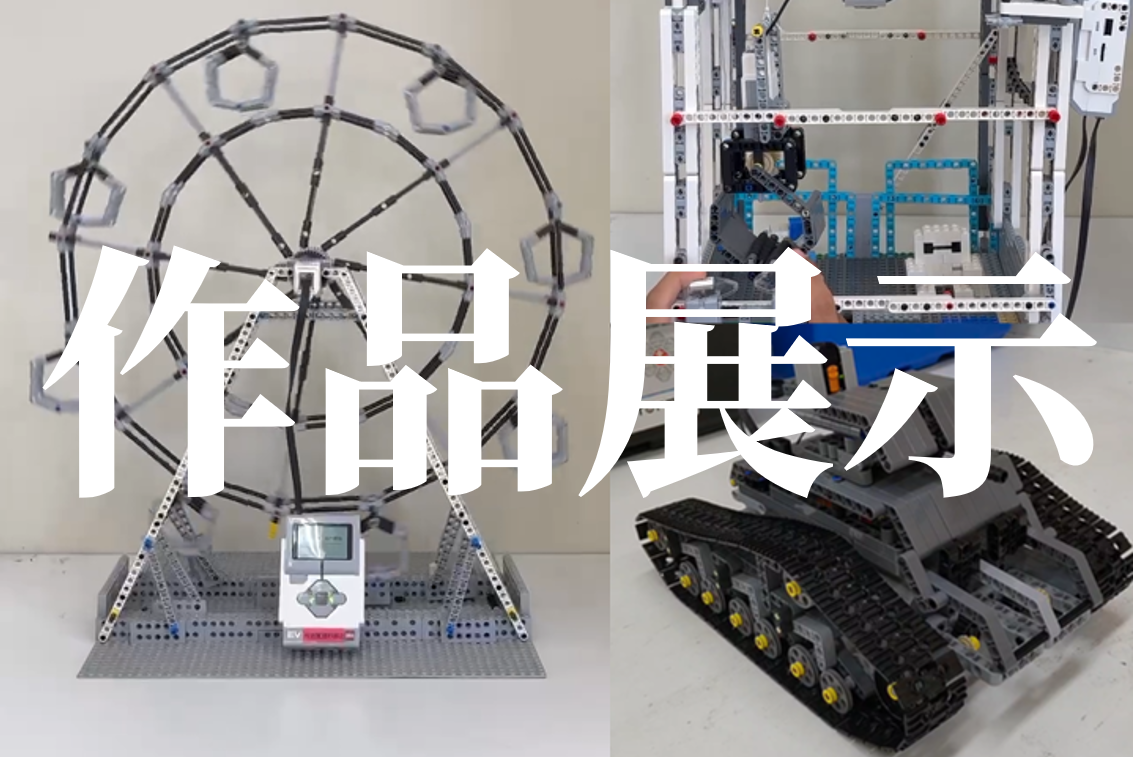
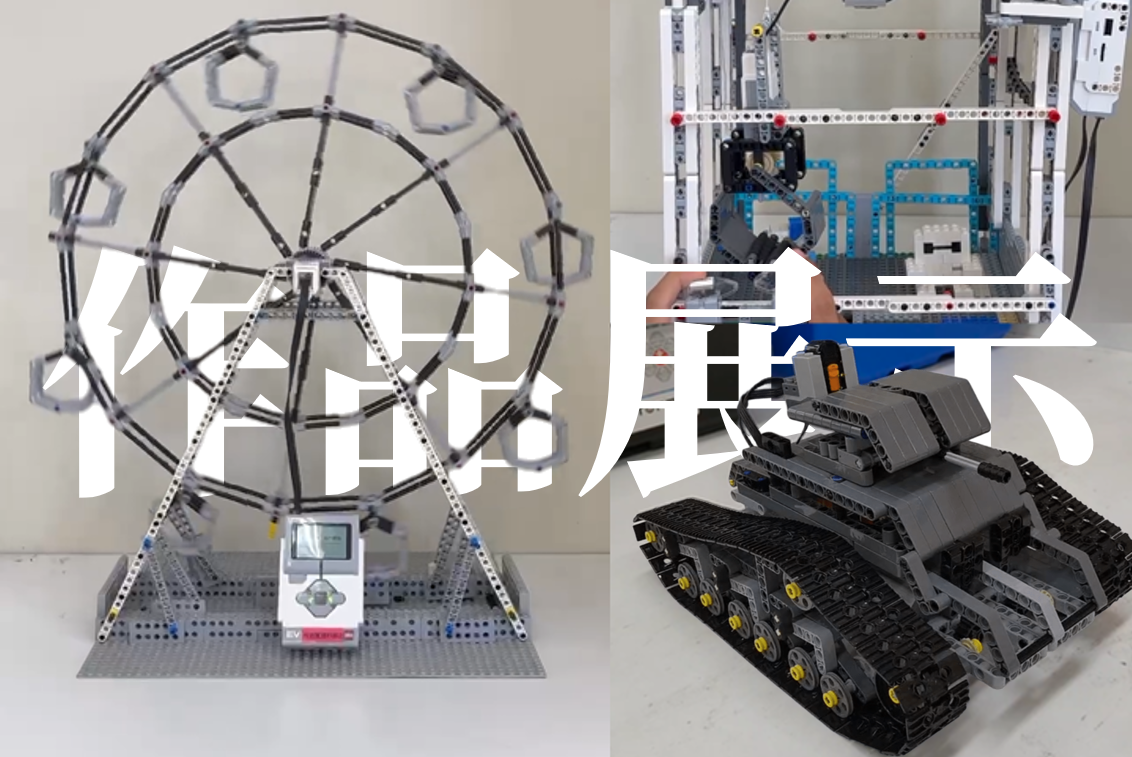
新

diff --git a/index.html b/index.html
@@ -15,14 +15,14 @@
    TOKENS
 =================================================================== */
 :root{
-  --paper:      #F6F1E7; /* moon-cream: 背景 */
+  --paper:      #F6F1E7;
   --paper-soft: #EFE7D8;
-  --ink:        #1B1F3B; /* deep indigo: メインテキスト/濃色 */
+  --ink:        #1B1F3B;
   --ink-soft:   #454A6E;
-  --coral:      #F2795B; /* signature accent */
+  --coral:      #F2795B;
   --coral-deep: #D85E42;
-  --gold:       #E8C468; /* star gold */
-  --teal:       #4C7A80; /* 補助色 */
+  --gold:       #E8C468;
+  --teal:       #4C7A80;
   --line:       rgba(27,31,59,0.14);
 
   --font-display: "Zen Old Mincho", serif;
@@ -70,7 +70,7 @@ ul{ margin:0; padding:0; list-style:none; }
 img{ max-width:100%; display:block; }
 
 /* ===================================================================
-   装飾: 背景の星フィールド(signature element)
+   装飾: 背景
 =================================================================== */
 .star-field{
   position:fixed; inset:0;
@@ -381,7 +381,7 @@ img{ max-width:100%; display:block; }
 .work-card .link-btn--solid:hover{ background:var(--coral); border-color:var(--coral); color:var(--ink); }
 
 /* ===================================================================
-   NEWS / GOODS ウィジェット
+   NEWS
 =================================================================== */
 .widget-row{
   margin-top:52px;
@@ -466,7 +466,7 @@ img{ max-width:100%; display:block; }
 }
 
 /* ===================================================================
-   CTA (Contact / Shop)
+   CTA
 =================================================================== */
 .cta-grid{ display:grid; grid-template-columns:1fr 1fr; gap:28px; }
 @media (max-width:800px){ .cta-grid{ grid-template-columns:1fr; } }
@@ -1245,8 +1245,7 @@ body.modal-open{ overflow:hidden; }
 
         <!-- ▼ SNS等 各種リンクボタン(メイン) -->
         <div class="link-buttons" aria-label="公式リンク">
-          <a href="#" class="link-btn" data-external></span>X (Twitter)</a>
-          <a href="#" class="link-btn" data-external></span>Instagram</a>
+          <a href="https://www.instagram.com/p/DPSZz1HjPwc/" class="link-btn" data-external></span>Instagram</a>
           <a href="https://www.youtube.com/watch?v=gTEdGXhTDfI" class="link-btn" data-external></span>YouTube</a>
         </div>
 
@@ -1321,8 +1320,7 @@ body.modal-open{ overflow:hidden; }
       <div class="cta-links">
         <p class="eyebrow mono center">Link</p>
         <div class="link-buttons link-buttons--center">
-          <a href="#" class="link-btn" data-external></span>X (Twitter)</a>
-          <a href="#" class="link-btn" data-external></span>Instagram</a>
+          <a href="https://www.instagram.com/p/DPSZz1HjPwc/" class="link-btn" data-external></span>Instagram</a>
           <a href="https://www.youtube.com/watch?v=gTEdGXhTDfI" class="link-btn" data-external></span>YouTube</a>
         </div>
       </div>
@@ -1354,7 +1352,7 @@ body.modal-open{ overflow:hidden; }
     <nav class="footer-nav">
     </nav>
 
-    <p class="copyright mono">製作：技術家庭科部</p>
+    <p class="copyright mono">Kanimisova_VRC</p>
   </div>
 
   <!--<button class="to-top" id="toTop" aria-label="ページトップへ戻る">↑</button>-->
@@ -1481,17 +1479,15 @@ const worksData = [
       { from: '2026-10-18T10:30', label: '本日は終了しました。' },
     ],
     title: 'ロボットサッカー',
-    titleDisplay: 'ロボットサッカー',   // 表示用(改行OK)
     thumb: 'assets/ロボサカサムネ.png',
     meta: [
       { label: '対象年齢', value: '全年齢' },
       { label: 'ジャンル', value: '観戦' },
       { label: '開催場所', value: '第一体育館' },
     ],
-    leadCard: '試行錯誤して作ったサッカーロボットで試合をします。選手たちの熱い戦いにご注目ください。',   // カード一覧(短め)
     leadPopup: '試行錯誤して作ったサッカーロボットで試合をします。仲間と積み重ねた努力を発揮し、トーナメントを勝ち抜いたチームが栄冠を手にします。選手たちの熱い戦いにご注目ください！',  // ポップアップ(長め)
     gallery: ['assets/ロボサカ1.png'],
-    video: null,              // YouTube埋め込みURL。無ければnull
+    video: null,
     links: [
     ],
     schedule: [
@@ -1516,7 +1512,7 @@ const worksData = [
 
   {
     id: 'work-c',
-    badge: 'null',            // 'new' / 'released' / 'live' / null(バッジなし)
+    badge: 'null',
     badgeText: '',
     statusTimeline: [
       { from: null, label: '常設展示' },
@@ -1528,10 +1524,9 @@ const worksData = [
       { label: 'ジャンル', value: '展示' },
       { label: '展示場所', value: '3階 Macルーム' },
     ],
-    leadCard: '部員が作った作品を展示しています。',   // カード一覧(短め)
     leadPopup: '主にレゴ班の部員が作ったレゴ作品を展示しています。組み立てやプログラムに工夫した作品が今年もたくさん集まりました。',  // ポップアップ(長め)
     gallery: ['assets/レゴ班作品展示.png'],
-    video: null,              // YouTube埋め込みURL。無ければnull
+    video: null,
     links: [
     ],
     schedule: []
@@ -1551,10 +1546,9 @@ const worksData = [
       { label: 'ジャンル', value: '' },
       { label: '開催場所', value: '' },
     ],
-    leadCard: '',   // カード一覧(短め)
     leadPopup: '',  // ポップアップ(長め)
     gallery: ['assets/画像なし.png'],
-    video: null,              // YouTube埋め込みURL。無ければnull
+    video: null,
     links: [
       { label: '詳細はこちら', url: '#' }
     ],
@@ -1575,10 +1569,9 @@ const worksData = [
       { label: 'ジャンル', value: '' },
       { label: '開催場所', value: '' },
     ],
-    leadCard: '',   // カード一覧(短め)
     leadPopup: '',  // ポップアップ(長め)
     gallery: ['assets/画像なし.png'],
-    video: null,              // YouTube埋め込みURL。無ければnull
+    video: null,
     links: [
       { label: '詳細はこちら', url: '#' }
     ],

diff --git a/js/map.js b/js/map.js
@@ -28,8 +28,8 @@ if (container) {
   const POLAR_MIN = 0.001;
   const POLAR_MAX = Math.PI / 2 - 0.05;
 
-  let baseRadius = 8;   // ← 追加: モデルサイズから計算される基準の距離
-  let zoomFactor = 1;    // ← 追加: ズームの倍率(1が標準)
+  let baseRadius = 8;   // モデルサイズから計算される基準の距離
+  let zoomFactor = 1;    // ズームの倍率(1が標準)
   const ZOOM_MIN = 0.4;   // どこまで寄れるか
   const ZOOM_MAX = 2.2;   // どこまで引けるか
 
@@ -43,8 +43,8 @@ if (container) {
 
   /* ---- ラベル用の変数(共通の場所で定義) ---- */
   let roomLabelElements = [];
-  let roomMeshes = [];   // ← 追加
-  let roomVisibleStates = [];   // ← 追加: 各部屋が「表示されるべきか」を記録
+  let roomMeshes = [];
+  let roomVisibleStates = [];   // 各部屋が「表示されるべきか」を記録
 
   /* ---- モデル読み込み ---- */
   const loader = new GLTFLoader();
@@ -105,7 +105,7 @@ if (container) {
         });
         const key = child.name.replace('Target_Red_', '');
         roomTargets.push({ object: child, label: roomNameMap[key] || key });
-        roomMeshes.push(child);   // ← 追加
+        roomMeshes.push(child);
 
       } else if (child.name.startsWith('Target_Blue_')) {
         child.material = new THREE.MeshBasicMaterial({
@@ -116,7 +116,7 @@ if (container) {
         });
         const key = child.name.replace('Target_Blue_', '');
         roomTargets.push({ object: child, label: roomNameMap[key] || key });
-        roomMeshes.push(child);   // ← 追加
+        roomMeshes.push(child);
 
       } else if (child.name.startsWith('Target_Green_')) {
         child.material = new THREE.MeshBasicMaterial({
@@ -127,7 +127,7 @@ if (container) {
         });
         const key = child.name.replace('Target_Green_', '');
         roomTargets.push({ object: child, label: roomNameMap[key] || key });
-        roomMeshes.push(child);   // ← 追加
+        roomMeshes.push(child);
       }
       
     });
@@ -168,8 +168,8 @@ if (container) {
         return { object: room.object, el };
       });
 
-      updateSimpleLabels();   // ← 追加: 初期位置を計算
-      roomLabelElements.forEach(({ el }) => el.classList.add('is-visible'));  // ← 追加: 最初から表示
+      updateSimpleLabels();
+      roomLabelElements.forEach(({ el }) => el.classList.add('is-visible'));
     }
 
     /* ---- ネオングリッド ---- */
@@ -259,7 +259,7 @@ if (container) {
   }
 
   function setRoomVisible(index, visible) {
-    roomVisibleStates[index] = visible;   // ← 追加: 状態を記録
+    roomVisibleStates[index] = visible;
     const mesh = roomMeshes[index];
     const label = roomLabelElements[index];
     if (mesh) animateOpacity(mesh.material, visible ? 0.85 : 0);
@@ -331,7 +331,7 @@ if (container) {
     zoomFactor = Math.max(ZOOM_MIN, Math.min(ZOOM_MAX, zoomFactor * delta));
     radius = baseRadius * zoomFactor;
     updateCamera();
-    updateSimpleLabels();   // ← 追加
+    updateSimpleLabels();
   }, { passive: false });
 
   /* ---- スマホのピンチズーム ---- */
@@ -360,7 +360,7 @@ if (container) {
       zoomFactor = Math.max(ZOOM_MIN, Math.min(ZOOM_MAX, pinchStartZoom * scale));
       radius = baseRadius * zoomFactor;
       updateCamera();
-      updateSimpleLabels();   // ← 追加
+      updateSimpleLabels();
     }
   }, { passive: false });
 
@@ -419,7 +419,6 @@ if (container) {
         Promise.resolve(request).then(() => {
           if (screen.orientation && screen.orientation.lock) {
             screen.orientation.lock('landscape').catch(() => {
-              // 対応していない端末・ブラウザの場合は何もしない(エラーを無視)
             });
           }
         });
